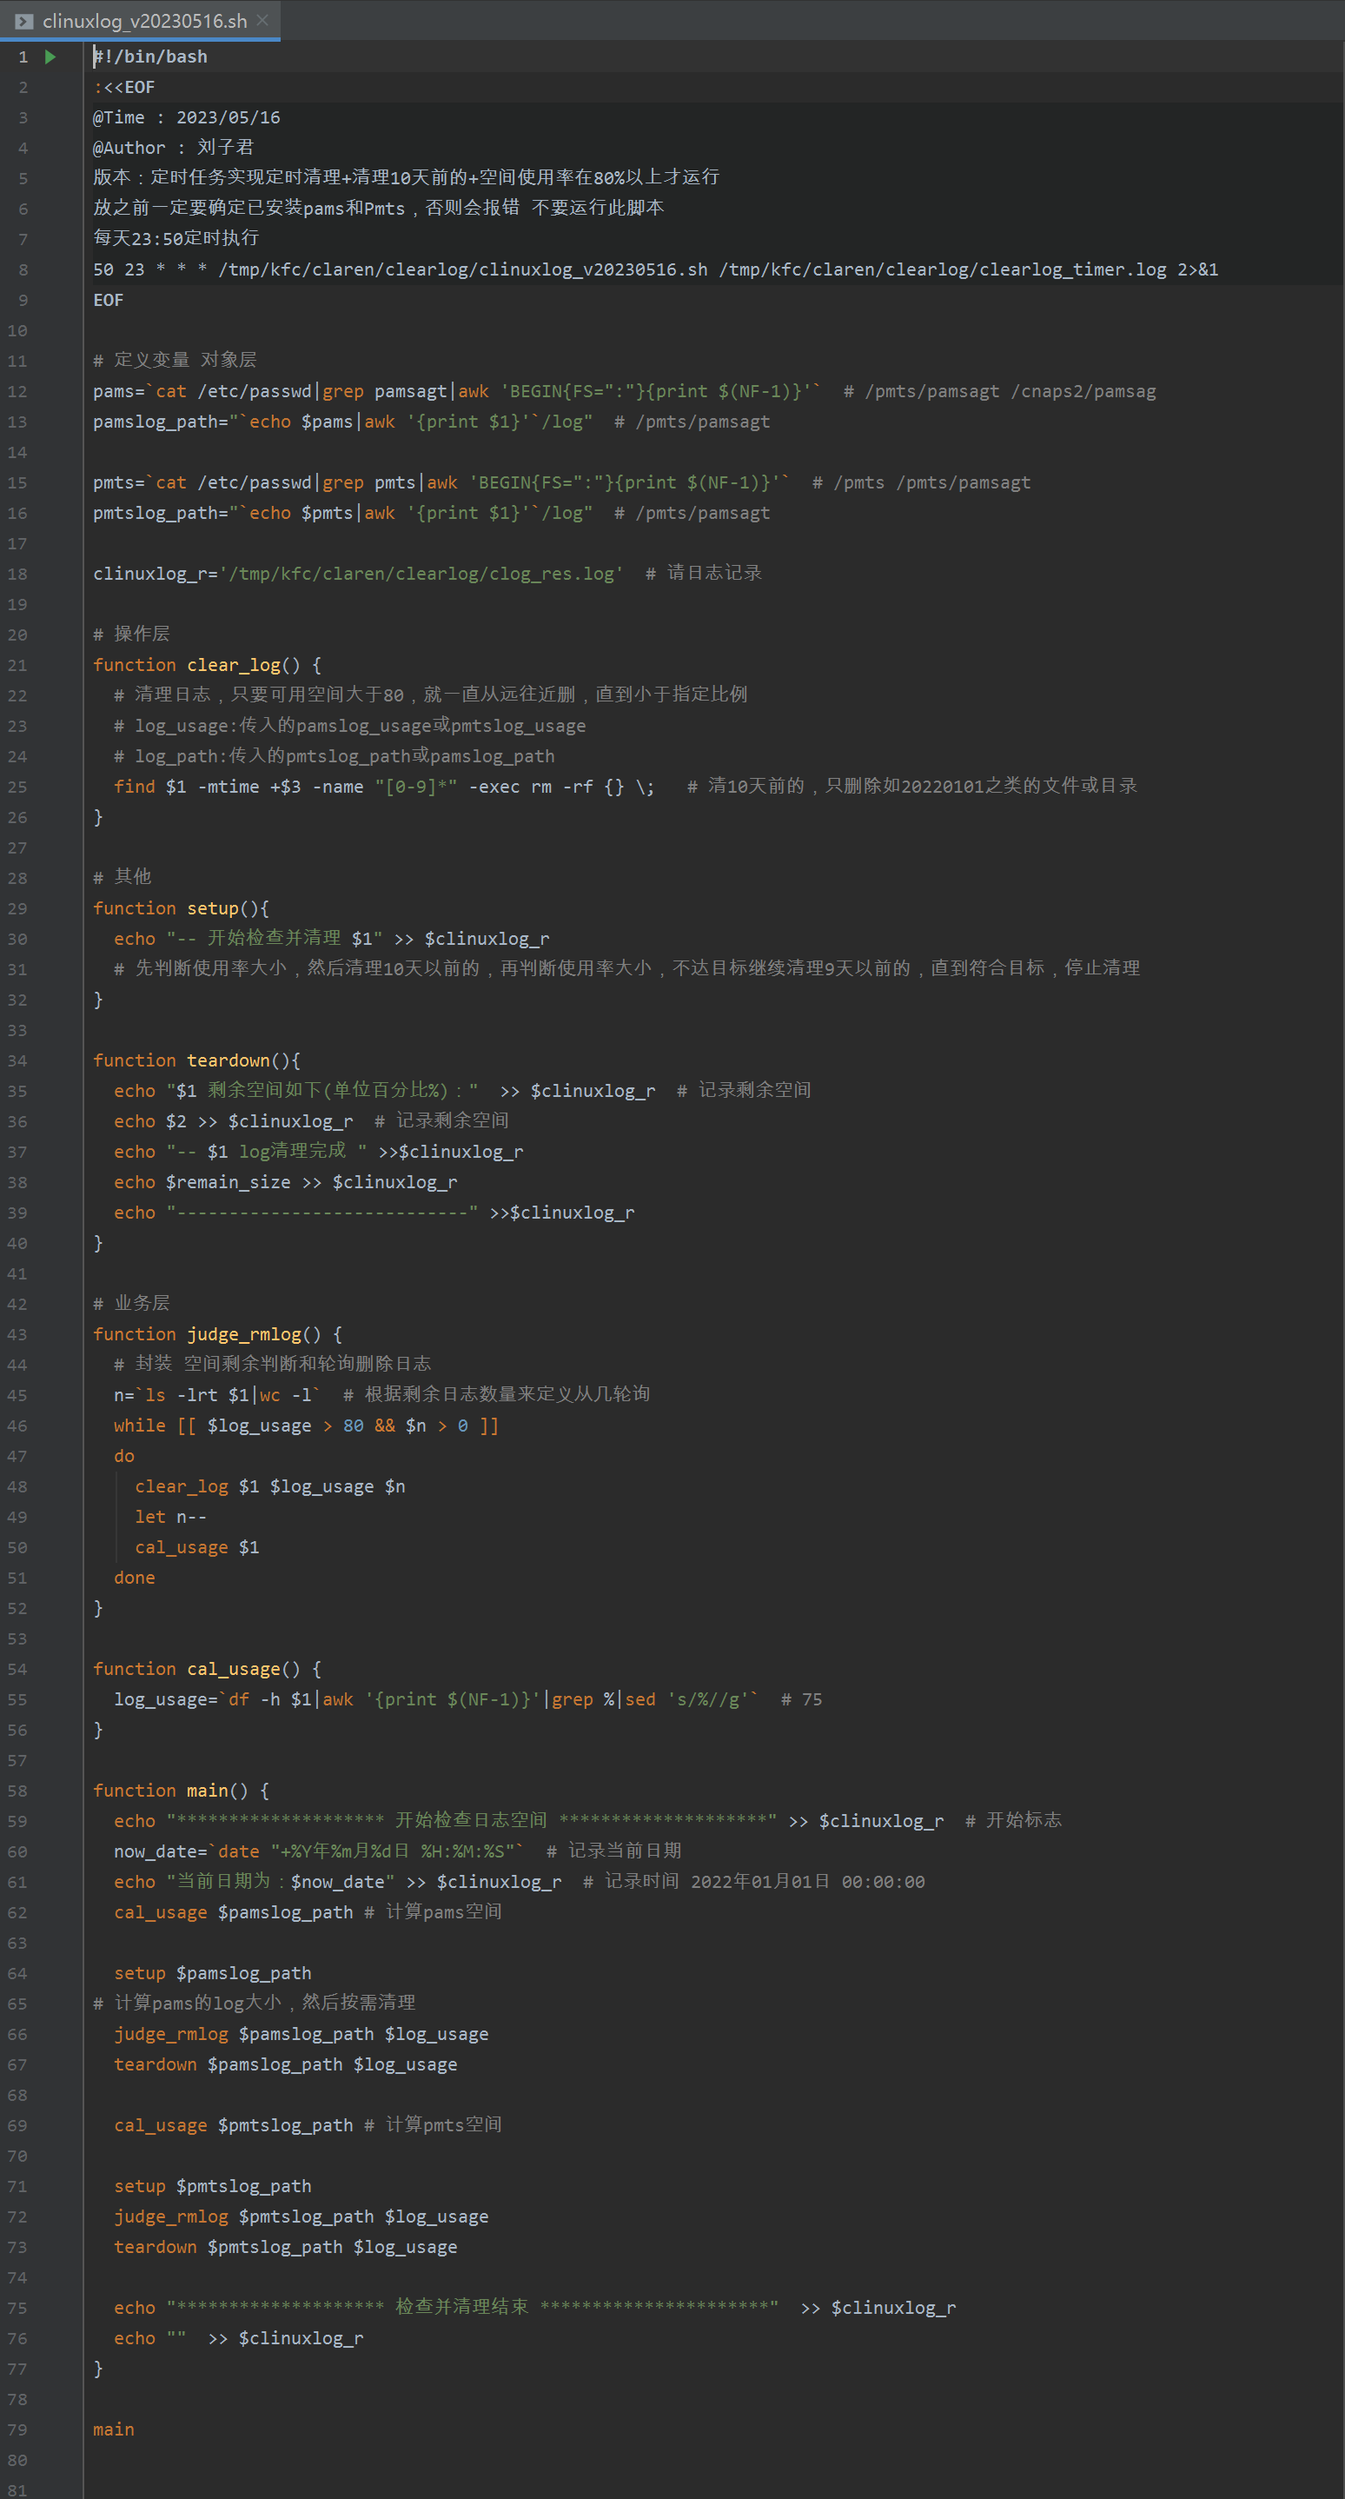
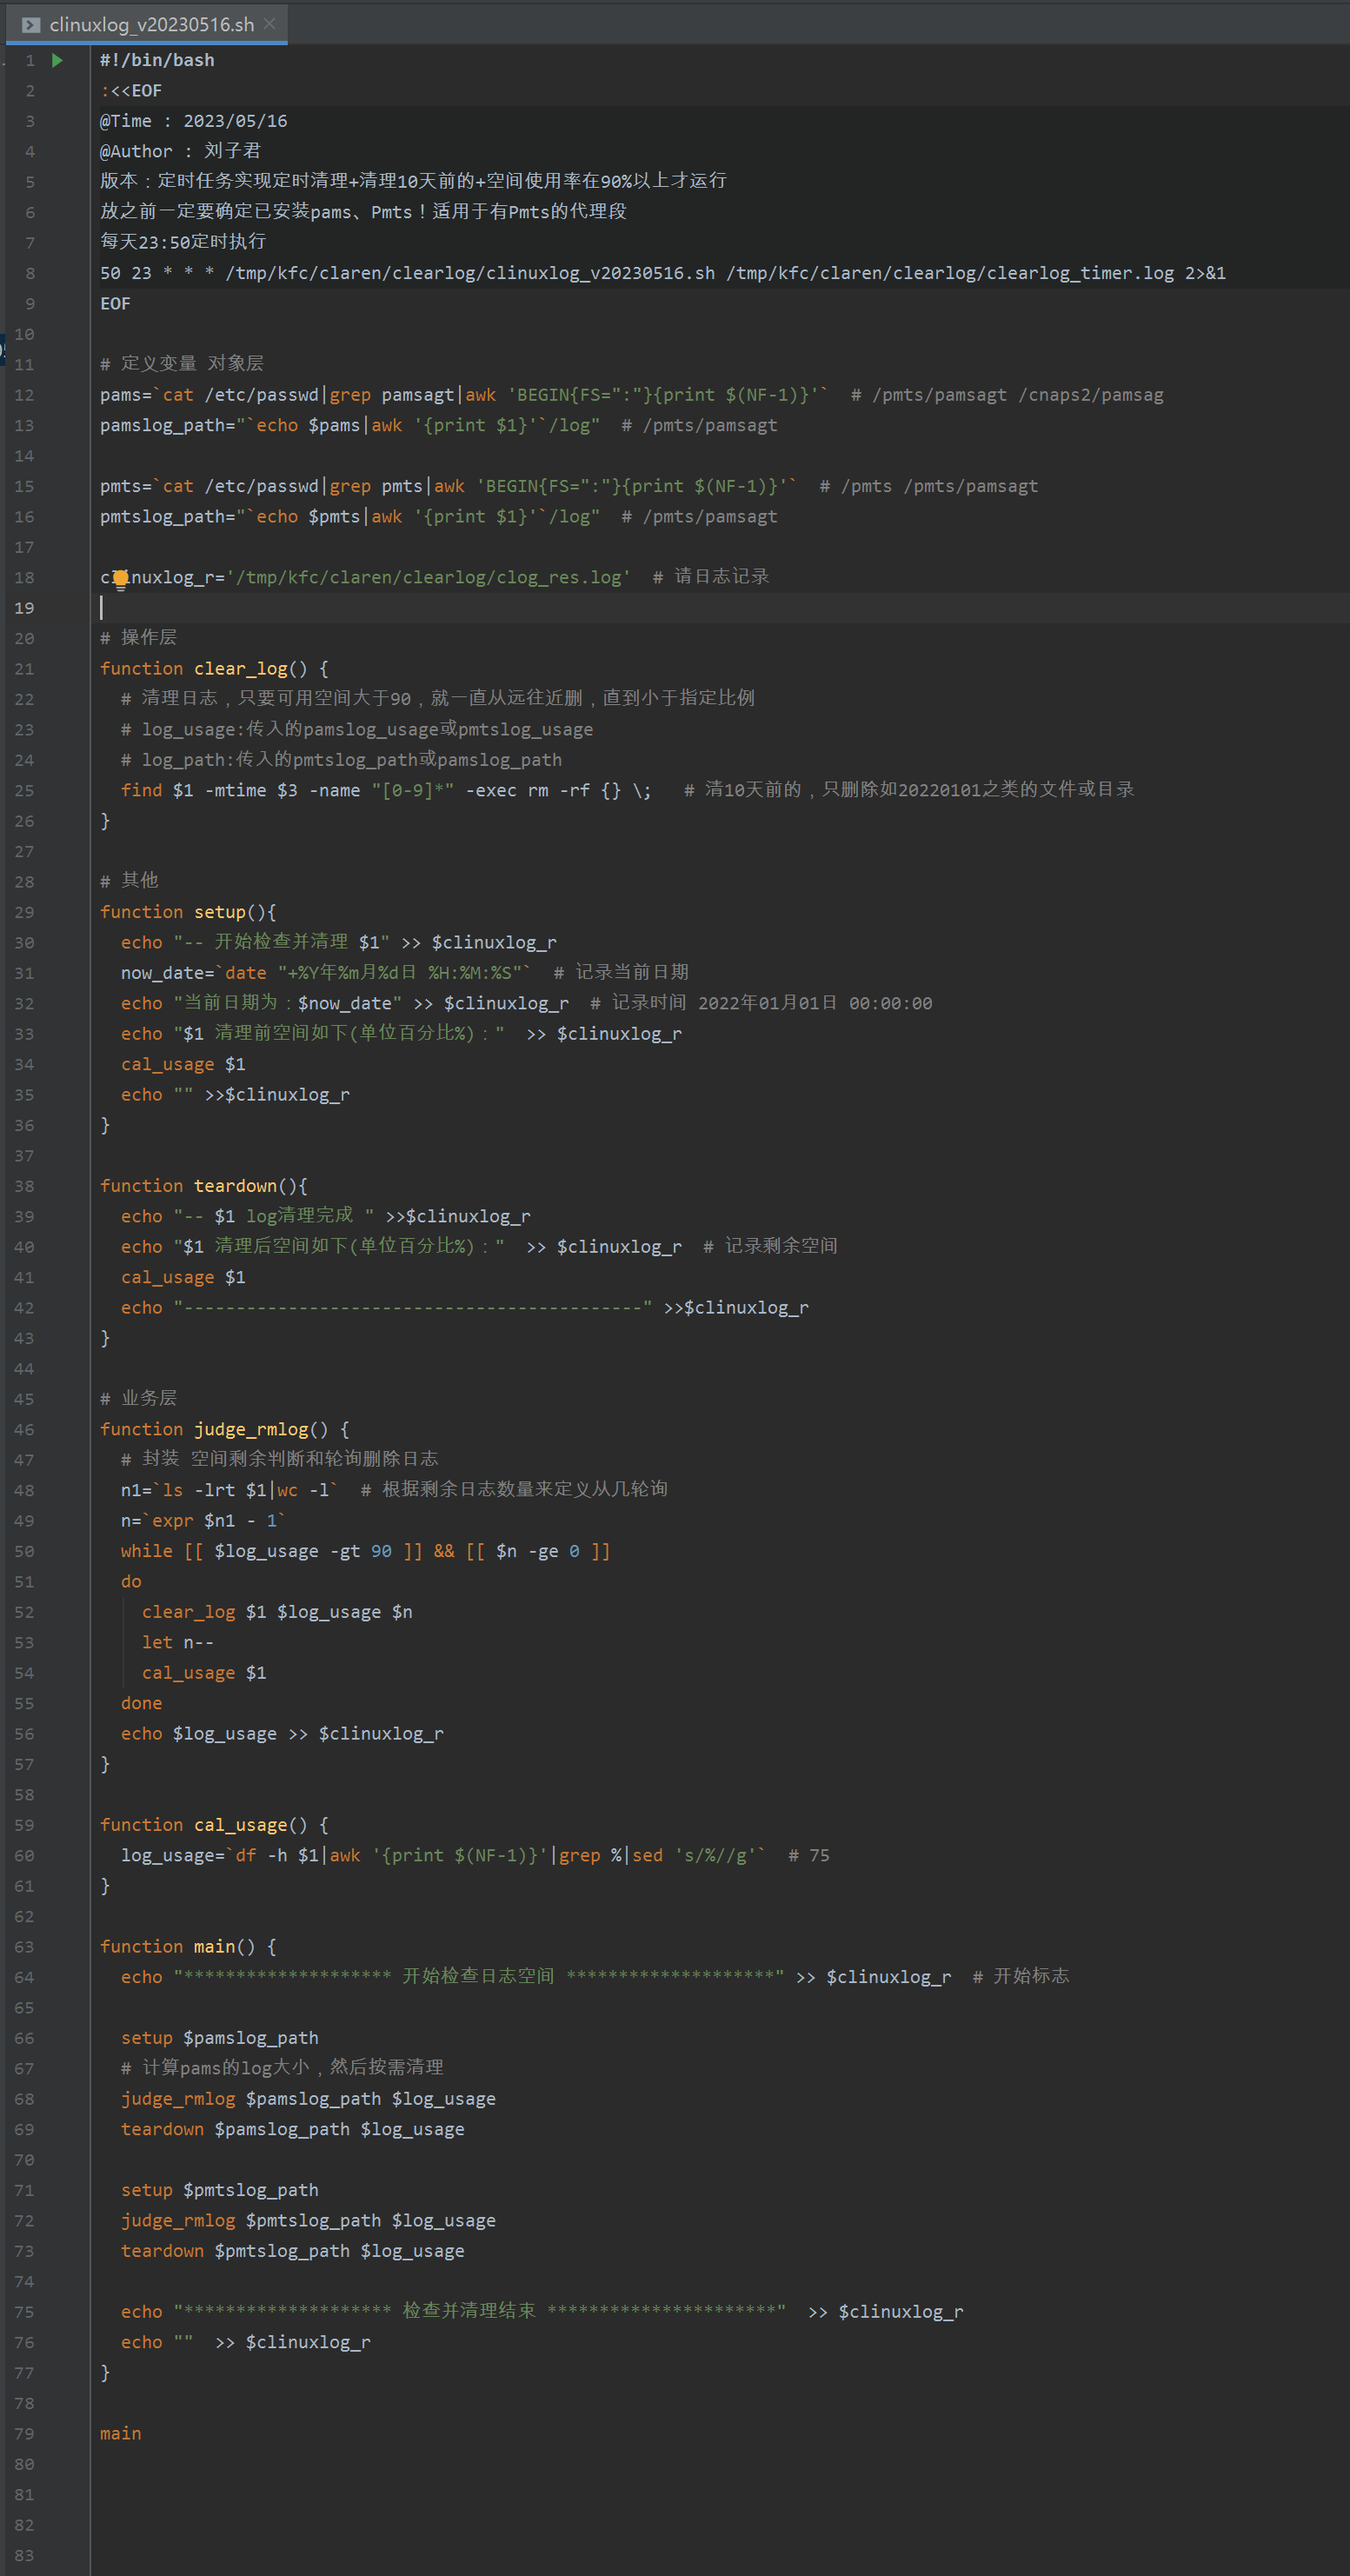
20230518 anki 更新清日志脚本（方式由+n变为了n，优化后可删除昨天和今天的日志，空间使用率大小也改为了90才清理）

diff --git a/B01_14 UI自动化/B01_14 09 Selenium/Codes/2023/5月/anki_sel_20230518.py b/B01_14 UI自动化/B01_14 09 Selenium/Codes/2023/5月/anki_sel_20230518.py
@@ -1,0 +1,12 @@
+from selenium import webdriver
+from selenium.webdriver.common.by import By
+
+
+cdp = r'D:\Program Files\pagetest\注册A.html'
+driver = webdriver.Chrome()
+driver.get(cdp)
+e1 = '' # 定位复选框
+# 判断页面中'旅游'对应的复选框是否为选中的状态
+e1.is_selected()
+
+driver.close()
